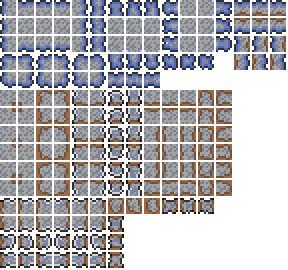
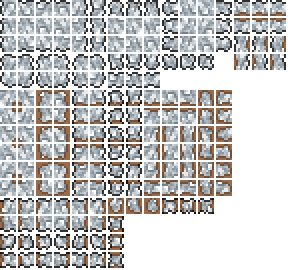
加入了消蚀火把，更新了黑冰雪块贴图

diff --git a/Content/Tiles/ErodingTorch.cs b/Content/Tiles/ErodingTorch.cs
@@ -1,0 +1,110 @@
+using Microsoft.Xna.Framework;
+using System;
+using System.Collections.Generic;
+using System.Linq;
+using System.Text;
+using System.Threading.Tasks;
+using Terraria;
+using Terraria.DataStructures;
+using Terraria.Enums;
+using Terraria.ID;
+using Terraria.Localization;
+using Terraria.ModLoader;
+using Terraria.ObjectData;
+
+namespace WBHMODE.Content.Tiles
+{
+    public class ErodingTorch : ModTile
+    {
+        public override void SetStaticDefaults()
+        {
+            Main.tileSolid[Type] = false;
+            Main.tileLighted[Type] = true;
+            Main.tileBlockLight[Type] = false;
+
+            Main.tileFrameImportant[Type] = true;
+            Main.tileNoAttach[Type] = true;
+            Main.tileNoFail[Type] = true;
+            Main.tileWaterDeath[Type] = true;
+            Main.tileLavaDeath[Type] = true;
+            TileID.Sets.DisableSmartCursor[Type] = true;
+            TileID.Sets.Torch[Type] = true;
+            TileID.Sets.FramesOnKillWall[Type] = true;
+
+            TileObjectData.newTile.CopyFrom(TileObjectData.StyleTorch);
+            TileObjectData.newTile.WaterDeath = true;
+            TileObjectData.newTile.LavaDeath = true;
+            TileObjectData.newTile.WaterPlacement = LiquidPlacement.NotAllowed;
+            TileObjectData.newTile.LavaPlacement = LiquidPlacement.NotAllowed;
+            TileObjectData.newTile.AnchorBottom = new AnchorData(AnchorType.SolidTile | AnchorType.SolidSide, TileObjectData.newTile.Width, 0);
+
+            TileObjectData.newAlternate.CopyFrom(TileObjectData.StyleTorch);
+            TileObjectData.newAlternate.WaterDeath = true;
+            TileObjectData.newAlternate.LavaDeath = true;
+            TileObjectData.newAlternate.WaterPlacement = LiquidPlacement.NotAllowed;
+            TileObjectData.newAlternate.LavaPlacement = LiquidPlacement.NotAllowed;
+            TileObjectData.newAlternate.AnchorLeft = new AnchorData(AnchorType.SolidTile | AnchorType.SolidSide | AnchorType.Tree | AnchorType.AlternateTile, TileObjectData.newTile.Height, 0);
+            TileObjectData.addAlternate(1);
+
+            TileObjectData.newAlternate.CopyFrom(TileObjectData.StyleTorch);
+            TileObjectData.newAlternate.WaterDeath = true;
+            TileObjectData.newAlternate.LavaDeath = true;
+            TileObjectData.newAlternate.WaterPlacement = LiquidPlacement.NotAllowed;
+            TileObjectData.newAlternate.LavaPlacement = LiquidPlacement.NotAllowed;
+            TileObjectData.newAlternate.AnchorRight = new AnchorData(AnchorType.SolidTile | AnchorType.SolidSide | AnchorType.Tree | AnchorType.AlternateTile, TileObjectData.newTile.Height, 0);
+            TileObjectData.addAlternate(2);
+
+            TileObjectData.newAlternate.CopyFrom(TileObjectData.StyleTorch);
+            TileObjectData.newAlternate.WaterDeath = true;
+            TileObjectData.newAlternate.LavaDeath = true;
+            TileObjectData.newAlternate.WaterPlacement = LiquidPlacement.NotAllowed;
+            TileObjectData.newAlternate.LavaPlacement = LiquidPlacement.NotAllowed;
+            TileObjectData.newAlternate.AnchorWall = true;
+            TileObjectData.addAlternate(0);
+
+            TileObjectData.addTile(Type);
+
+            AddToArray(ref TileID.Sets.RoomNeeds.CountsAsTorch);
+            AddMapEntry(new Color(253, 221, 3), Language.GetText("ItemName.Torch"));
+            AdjTiles = new int[] { TileID.Torches };
+
+        }
+
+        public override void NumDust(int i, int j, bool fail, ref int num)
+        {
+            num = fail ? 1 : 3;
+        }
+
+        public override void ModifyLight(int i, int j, ref float r, ref float g, ref float b)
+        {
+            r = 1;
+            g = 1;
+            b = 1;
+            return;
+        }
+        public override void MouseOver(int i, int j)
+        {
+            Player player = Main.LocalPlayer;
+            player.noThrow = 2;
+            player.cursorItemIconEnabled = true;
+
+            // We can determine the item to show on the cursor by getting the tile style and looking up the corresponding item drop.
+            int style = TileObjectData.GetTileStyle(Main.tile[i, j]);
+            player.cursorItemIconID = TileLoader.GetItemDropFromTypeAndStyle(Type, style);
+        }
+        public override void SetDrawPositions(int i, int j, ref int width, ref int offsetY, ref int height, ref short tileFrameX, ref short tileFrameY)
+        {
+            // This code slightly lowers the draw position if there is a solid tile above, so the flame doesn't overlap that tile. Terraria torches do this same logic.
+            offsetY = 0;
+
+            if (WorldGen.SolidTile(i, j - 1))
+            {
+                offsetY = 4;
+            }
+        }
+        //public override void ChangeWaterfallStyle(ref int style)
+        //{
+        //    style = ModContent.GetInstance<ExampleWaterfallStyle>().Slot;
+        //}
+    }
+}

diff --git a/Content/Items/Placeable/ErodingTorch.cs b/Content/Items/Placeable/ErodingTorch.cs
@@ -1,0 +1,73 @@
+using Microsoft.Xna.Framework;
+using Terraria;
+using Terraria.ID;
+using Terraria.ModLoader;
+
+namespace WBHMODE.Content.Items.Placeable
+{
+    public class ErodingTorch : ModItem
+    {
+        public override void SetStaticDefaults()
+        {
+            Item.ResearchUnlockCount = 100;
+            ItemID.Sets.Torches[Item.type] = true;
+            ItemID.Sets.SingleUseInGamepad[Type] = true;
+            ItemID.Sets.ShimmerTransformToItem[Type] = ItemID.ShimmerTorch;
+        }
+
+        public override void SetDefaults()
+        {
+            Item.width = 14;
+            Item.height = 16;
+            Item.maxStack = 9999;
+            Item.holdStyle = 1;
+            Item.noWet = true;
+            Item.useTurn = true;
+            Item.autoReuse = true;
+            Item.useAnimation = 15;
+            Item.useTime = 10;
+            Item.useStyle = ItemUseStyleID.Swing;
+            Item.consumable = true;
+            Item.createTile = ModContent.TileType<Tiles.ErodingTorch>();
+            Item.flame = true;
+            Item.value = 50;
+        }
+
+        public override void HoldItem(Player player)
+        {
+            /*
+            bool killTorch = Collision.DrownCollision(player.position, player.width, player.height, player.gravDir) || Item.wet;
+            if (!killTorch && Main.rand.NextBool(player.itemAnimation > 0 ? 10 : 20))
+            {
+                Dust.NewDust(new Vector2(player.itemLocation.X + 16f * player.direction, player.itemLocation.Y - 14f * player.gravDir), 4, 4, DustID.Torch);
+            }
+            Vector2 position = player.RotatedRelativePoint(new Vector2(player.itemLocation.X + 12f * player.direction + player.velocity.X, player.itemLocation.Y - 14f + player.velocity.Y), true);
+            
+            if (!killTorch)*/
+                Lighting.AddLight(player.itemLocation, 0.9f, 0.9f, 1.1f);
+        }
+
+        public override void PostUpdate()
+        {
+            if (!Item.wet)
+                Lighting.AddLight((int)((Item.position.X + Item.width / 2) / 16f), (int)((Item.position.Y + Item.height / 2) / 16f), 1, 1, 1);
+        }
+
+        public override void AddRecipes()
+        {
+            // 徒手 火把3+流动石块/黑冰雪块/硬化流动沙块1->消蚀火把3
+            CreateRecipe(3).
+                AddIngredient(ItemID.Torch, 3).
+                AddIngredient(ModContent.ItemType<FlowingStone>(), 1).
+                Register();
+            CreateRecipe(3).
+                AddIngredient(ItemID.Torch, 3).
+                AddIngredient(ModContent.ItemType<BlackIceBlock>(), 1).
+                Register();
+            CreateRecipe(3).
+                AddIngredient(ItemID.Torch, 3).
+                AddIngredient(ModContent.ItemType<HardenedFlowingSandBlock>(), 1).
+                Register();
+        }
+    }
+}

diff --git a/Content/Tiles/BlackIce.cs b/Content/Tiles/BlackIce.cs
@@ -17,7 +17,7 @@ namespace WBHMODE.Content.Tiles
         public override void SetStaticDefaults() {
             Main.tileSolid[Type] = true;
             Main.tileBrick[Type] = true;
-            Main.tileMergeDirt[Type] = true;
+            Main.tileMergeDirt[Type] = false;
             Main.tileBlockLight[Type] = true;
             TileMaterials.SetForTileId(Type, TileMaterials._materialsByName["Ice"]);
 
